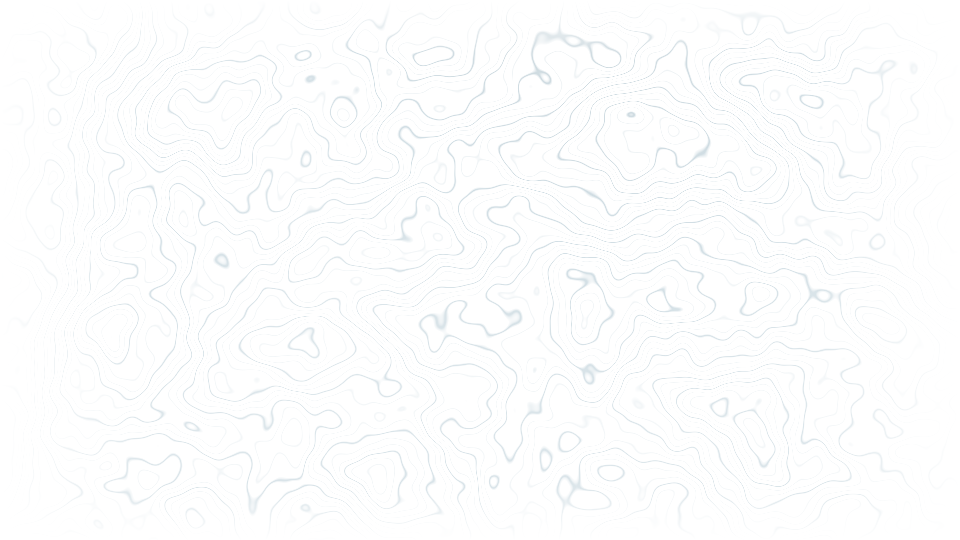
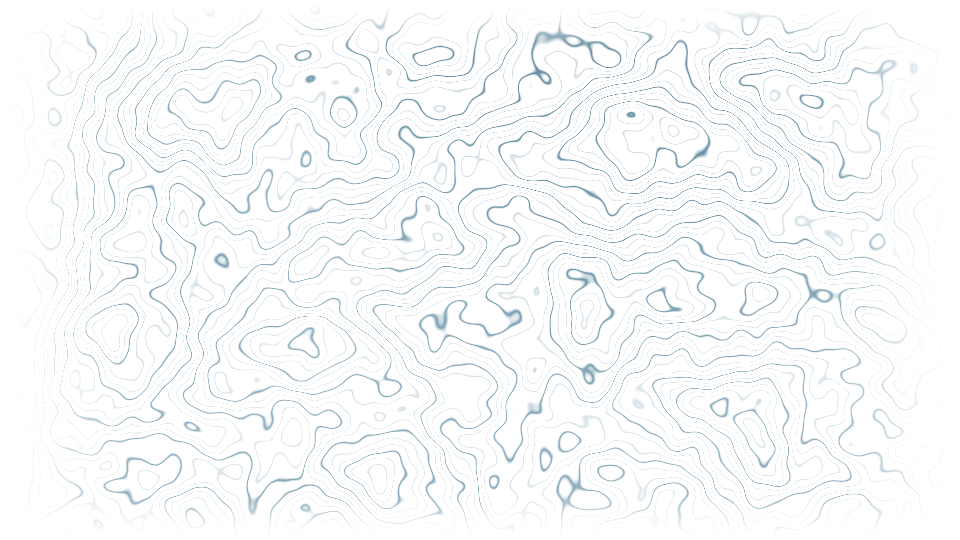
Add a smooth transition for the loading screen with a higher opacity background
Update preloader to use a static image with 70% opacity and implement a crossfade transition to the main content, improving visual continuity and reducing perceived loading times.

Replit-Commit-Author: Agent
Replit-Commit-Session-Id: 6c61ff20-731f-4755-8f81-6e30eacf3242
Replit-Commit-Checkpoint-Type: full_checkpoint
Replit-Commit-Event-Id: e1777a6f-e0ce-42e8-b62d-b86e5eb65e99
Replit-Commit-Screenshot-Url: https://storage.googleapis.com/screenshot-production-us-central1/a16074ad-7a06-4d7a-b66a-61c1f07df5fb/6c61ff20-731f-4755-8f81-6e30eacf3242/SR07xqL
Replit-Helium-Checkpoint-Created: true

diff --git a/client/index.html b/client/index.html
@@ -23,6 +23,7 @@
     <link rel="preload" href="https://fonts.googleapis.com/css2?family=DM+Sans:ital,opsz,wght@0,9..40,100..1000;1,9..40,100..1000&display=swap" as="style" onload="this.onload=null;this.rel='stylesheet'">
     <noscript><link rel="stylesheet" href="https://fonts.googleapis.com/css2?family=DM+Sans:ital,opsz,wght@0,9..40,100..1000;1,9..40,100..1000&display=swap"></noscript>
     <link href="https://fonts.googleapis.com/css2?family=Inter:wght@900&family=Playfair+Display:wght@700&display=swap" rel="stylesheet">
+    <link rel="preload" href="/images/topo-bg.png" as="image" type="image/png" />
     <!-- Google Analytics -->
     <script async src="https://www.googletagmanager.com/gtag/js?id=G-SYHZF2CVPF"></script>
     <script>
@@ -36,7 +37,13 @@
         position: fixed;
         inset: 0;
         z-index: 99999;
-        background: #FFFFFF;
+        background: #FFFFFF url('/images/topo-bg.png') center/cover no-repeat;
+        opacity: 1;
+        transition: opacity 0.25s ease-out;
+      }
+      #app-preloader.done {
+        opacity: 0;
+        pointer-events: none;
       }
     </style>
   </head>
@@ -47,7 +54,10 @@
     <script>
       setTimeout(function() {
         var p = document.getElementById('app-preloader');
-        if (p && p.parentNode) p.remove();
+        if (p && p.parentNode) {
+          p.classList.add('done');
+          setTimeout(function() { p.remove(); }, 300);
+        }
       }, 15000);
     </script>
   </body>

diff --git a/client/src/components/TopographicBackground.tsx b/client/src/components/TopographicBackground.tsx
@@ -114,7 +114,7 @@ const fragmentShader = `
 
     float combinedLine = min(majorLine * 0.85 + minorLine * 0.35, 1.0);
 
-    float alpha = combinedLine * 0.22;
+    float alpha = combinedLine * 0.70;
 
     alpha *= smoothstep(0.0, 0.15, uv.x) * smoothstep(0.0, 0.15, 1.0 - uv.x);
     alpha *= smoothstep(0.0, 0.1, uv.y) * smoothstep(0.0, 0.1, 1.0 - uv.y);

diff --git a/client/src/components/LoadingScreen.tsx b/client/src/components/LoadingScreen.tsx
@@ -5,7 +5,9 @@ import TopographicBackground from "./TopographicBackground";
 
 function dismissPreloader() {
   const el = document.getElementById('app-preloader');
-  if (el) el.remove();
+  if (!el) return;
+  el.classList.add('done');
+  setTimeout(() => el.remove(), 300);
 }
 
 interface LoadingScreenProps {
